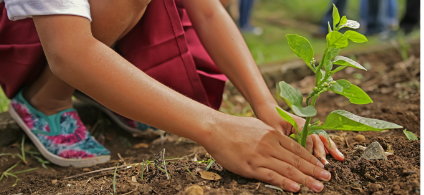
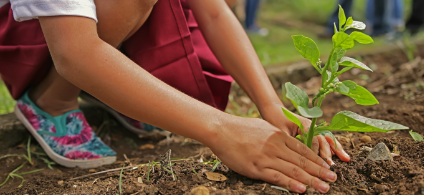
fix: removi margin

diff --git a/lib/screens/invitation_screen/invitation_screen.dart b/lib/screens/invitation_screen/invitation_screen.dart
@@ -33,17 +33,17 @@ class _InvitationScreenState extends State<InvitationScreen> {
             Stack(
               children: [
                 Image.asset(
-                  'assets/images/plating.png',
-                  fit: BoxFit.cover,
+                  'assets/images/plating.jpg',
                   width: double.infinity,
                 ),
                 Align(
                   alignment: Alignment.centerRight,
                   child: Padding(
-                    padding: const EdgeInsets.only(top: 16.0, right: 21),
+                    padding: const EdgeInsets.only(top: 16.0, right: 16),
                     child: RotatedBox(
                       quarterTurns: -1,
                       child: RichText(
+                        textAlign: TextAlign.center,
                         text: TextSpan(
                           text:
                               AppLocalizations.of(context)!.pictureByRommelDiaz,
@@ -62,24 +62,29 @@ class _InvitationScreenState extends State<InvitationScreen> {
                 mainAxisAlignment: MainAxisAlignment.start,
                 crossAxisAlignment: CrossAxisAlignment.start,
                 children: [
-                  Text(
-                    AppLocalizations.of(context)!.eachOneMakeADiference,
-                    style: TextStyle(
-                      color: Color(0xff003694),
-                      fontWeight: FontWeight.bold,
-                      fontSize: 16,
+                  Center(
+                    child: Text(
+                      AppLocalizations.of(context)!.eachOneMakeADiference,
+                      style: TextStyle(
+                        color: Color(0xff003694),
+                        fontWeight: FontWeight.bold,
+                        fontSize: 16,
+                      ),
+                      textAlign: TextAlign.center,
                     ),
                   ),
                   SizedBox(
                     height: 8,
                   ),
-                  Text(
-                    AppLocalizations.of(context)!
-                        .inviteYourFriendsToJoinOOTOPIA,
-                    style: TextStyle(
-                      fontSize: 14,
+                  Center(
+                    child: Text(
+                      AppLocalizations.of(context)!
+                          .inviteYourFriendsToJoinOOTOPIA,
+                      style: TextStyle(
+                        fontSize: 14,
+                      ),
+                      textAlign: TextAlign.center,
                     ),
-                    textAlign: TextAlign.center,
                   ),
                   SizedBox(
                     height: 20,

diff --git a/lib/screens/invitation_screen/components/sower_invitation_code.dart b/lib/screens/invitation_screen/components/sower_invitation_code.dart
@@ -29,14 +29,16 @@ class _SowerInvitationCodeState extends State<SowerInvitationCode> {
             fontSize: 16,
             fontWeight: FontWeight.bold,
           ),
+          textAlign: TextAlign.center,
         ),
         SizedBox(
           height: 8,
         ),
-        Text(
-          AppLocalizations.of(context)!.sendSowerInvitationCode,
-          softWrap: true,
-          textAlign: TextAlign.center,
+        Center(
+          child: Text(
+            AppLocalizations.of(context)!.sendSowerInvitationCode,
+            textAlign: TextAlign.center,
+          ),
         ),
         Padding(
           padding: const EdgeInsets.only(top: 16.0),
